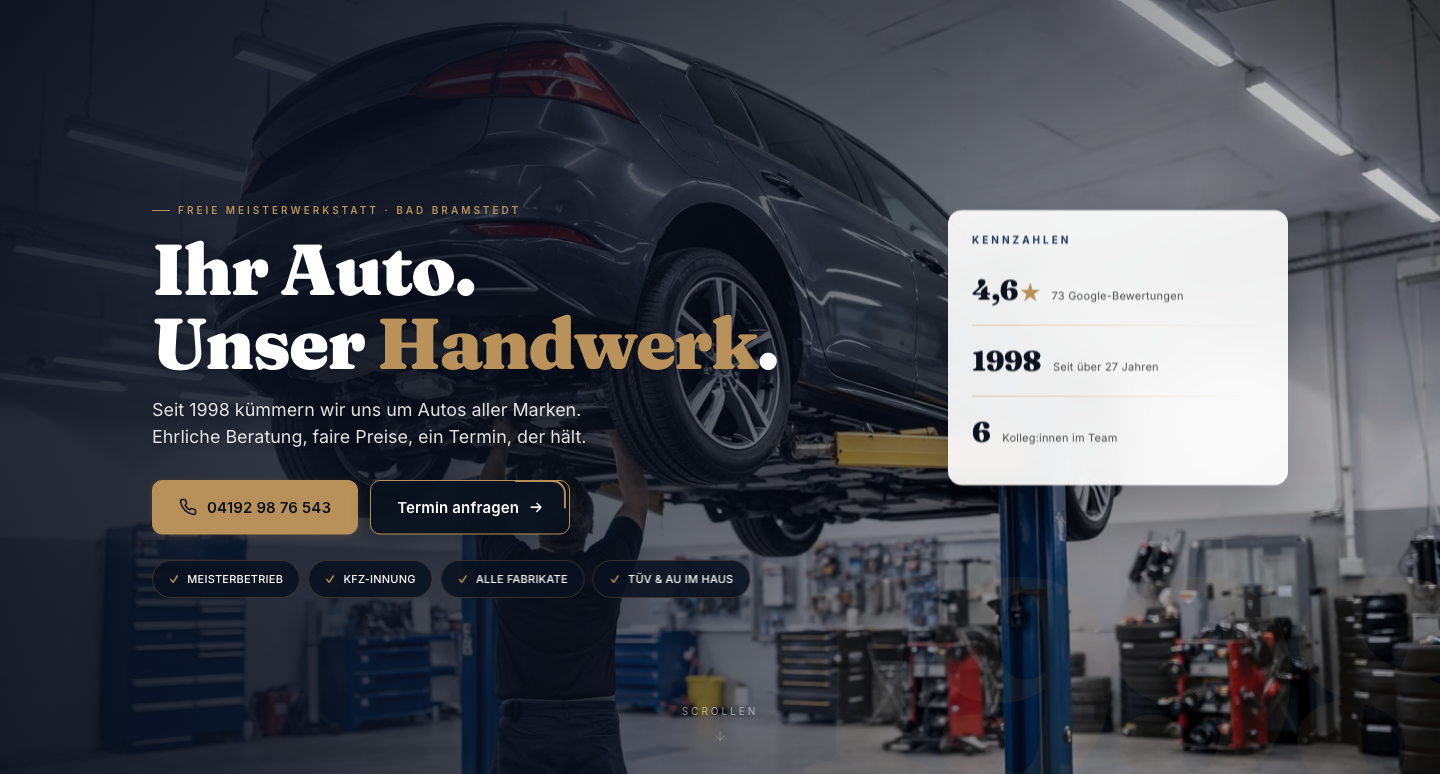
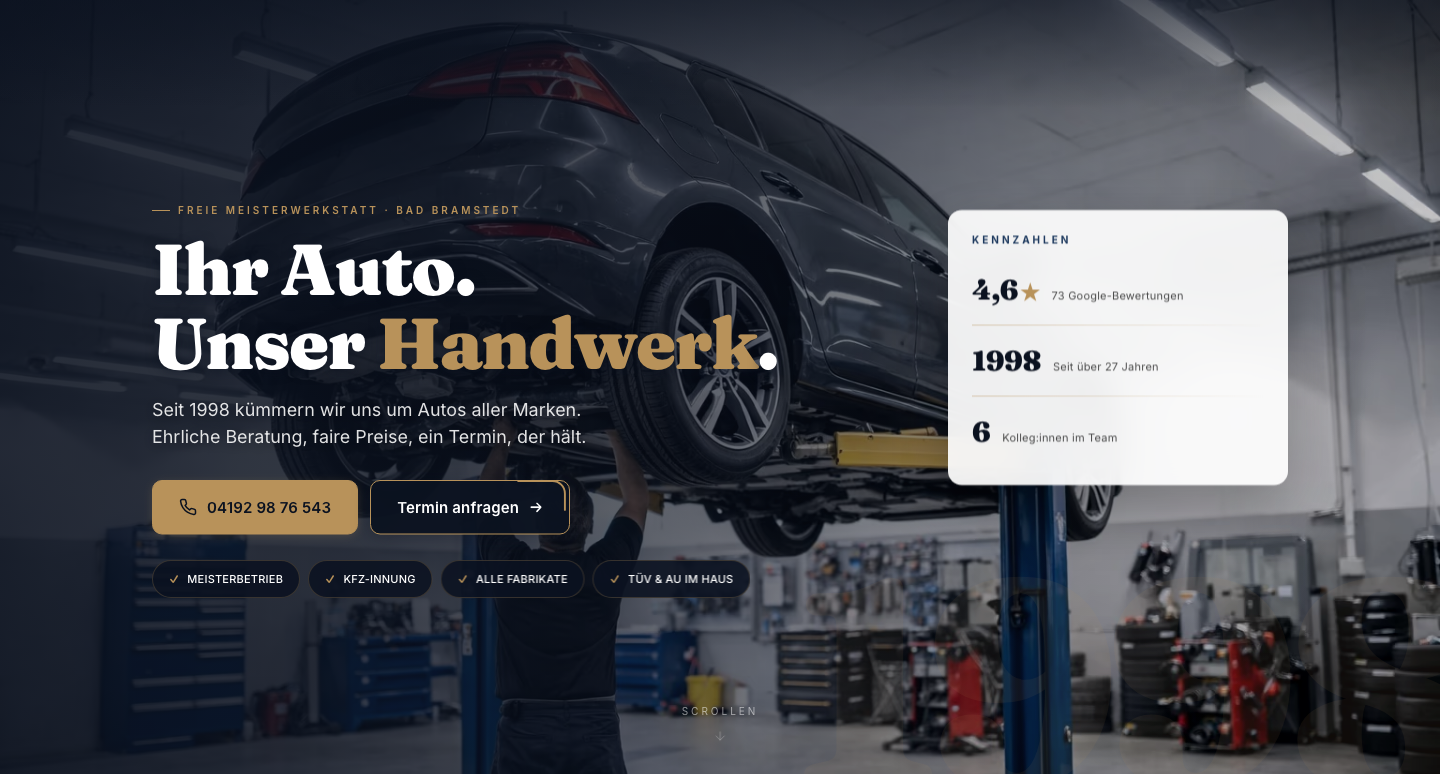
fix(1.8.2): dunkler top-scrim gegen decken-leds im hero-foto
Cowork-klaerung zu 1.8.1 §B: was als "weisser nebel" wahrgenommen wurde,
sind LED-streifen an der werkstatt-decke im hero-foto selbst (kein code-
layer existierte). statt nicht-existenten weissen scrim zu kuerzen,
duennen dunklen scrim auf .hero__media::before legen.

Implementation in styles/sections/03-hero.css:
.hero__media::before, position absolute, inset 0 0 auto 0, height 14%,
linear-gradient 180deg nachtblau 0.55 → 0.25 (55%) → 0 (100%), z-index 1.
.hero__media ist position:absolute (positioned), reicht funktional als
containing block fuer das ::before-pseudo.

Spiegelbildlich zum subline-scrim aus 1.8 §2.2 (.hero__scrim, eigenes
element kein pseudo). beide scrims liegen im stacking-context von
.hero__media (z-index -2) ueber dem img und bleiben unter .hero__inner
(z-index auto im normalfluss von .hero) — Headline/Subline/CTAs sichtbar
unveraendert.

Verifikation:
- A/B-test im selben page-load via addStyleTag-toggle (scripts/oneoff/
  scrim-ab.mjs): Mean RGB im LED-bereich (sample y=170..230) sinkt um
  -4.7/-4.3/-3.9 punkte → sichtbar dunkler.
- Visueller vergleich: _logs/1.8.2-hero-top-{before,after}.png zeigen
  led-streifen rechts oben deutlich abgedaempft.
- Subline-kontrast aus 1.8 §2.2 re-gemessen: 11.67:1 unveraendert
  (PASS WCAG AA).
- .hero__scrim und alle weiteren hero-layer unangetastet (Constitution §13:
  rein additive aenderung, keine regel ueberschrieben).

Changed region(s): [[0.5, 0.0, 0.9688, 0.093]]

diff --git a/sites/onepages/kfz-demo/styles.css b/sites/onepages/kfz-demo/styles.css
@@ -531,6 +531,37 @@ html.js-reveal-ready [data-reveal-stagger].is-revealed > * {
   object-position: center 35%;
   filter: contrast(1.04) saturate(0.9) brightness(0.78);
 }
+/* Hotfix 1.8.2 — Dunkler Top-Scrim gegen Decken-LED-Streifen.
+ * Cowork-Klärung zu 1.8.1 §B: was als „weißlicher Nebel" wahrgenommen
+ * wurde, sind die LED-Beleuchtungen an der Werkstatt-Decke im Foto
+ * selbst (kein Code-Layer). Lösung: dünner dunkler Scrim am oberen
+ * Rand, der die Lichter abdämpft. Spiegelbildlich zum Subline-Scrim
+ * `.hero__scrim` aus 1.8 §2.2 (links-unten dunkel).
+ *
+ * Stacking: .hero__media ist `position: absolute` (positioned), das
+ * reicht als Containing Block für ::before mit `position: absolute`
+ * — funktional äquivalent zu `position: relative` für diesen Zweck.
+ * z-index 1 liegt im Stacking-Context von .hero__media (z-index -2),
+ * über img (in-flow) und über .hero__scrim (positioned ohne z-index).
+ * .hero__inner-Inhalte (Headline, Subline, CTAs) liegen außerhalb
+ * .hero__media → unbeeinflusst, bleiben über dem Top-Scrim sichtbar.
+ *
+ * Constitution §13: rein additive Änderung. .hero__scrim und alle
+ * anderen Hero-Layer unverändert. */
+.hero__media::before {
+  content: "";
+  position: absolute;
+  inset: 0 0 auto 0;
+  height: 14%;
+  background: linear-gradient(
+    180deg,
+    rgba(11, 18, 32, 0.55) 0%,
+    rgba(11, 18, 32, 0.25) 55%,
+    rgba(11, 18, 32, 0)    100%
+  );
+  pointer-events: none;
+  z-index: 1;
+}
 /* 1.8 §2.2 — Hero-Scrim Diagnose + Fix.
  *
  * ROOT-CAUSE-Befund (Schritt 2 Pflicht-Ablauf, vorher Schritt 1

diff --git a/sites/onepages/kfz-demo/styles/sections/03-hero.css b/sites/onepages/kfz-demo/styles/sections/03-hero.css
@@ -18,6 +18,37 @@
   object-position: center 35%;
   filter: contrast(1.04) saturate(0.9) brightness(0.78);
 }
+/* Hotfix 1.8.2 — Dunkler Top-Scrim gegen Decken-LED-Streifen.
+ * Cowork-Klärung zu 1.8.1 §B: was als „weißlicher Nebel" wahrgenommen
+ * wurde, sind die LED-Beleuchtungen an der Werkstatt-Decke im Foto
+ * selbst (kein Code-Layer). Lösung: dünner dunkler Scrim am oberen
+ * Rand, der die Lichter abdämpft. Spiegelbildlich zum Subline-Scrim
+ * `.hero__scrim` aus 1.8 §2.2 (links-unten dunkel).
+ *
+ * Stacking: .hero__media ist `position: absolute` (positioned), das
+ * reicht als Containing Block für ::before mit `position: absolute`
+ * — funktional äquivalent zu `position: relative` für diesen Zweck.
+ * z-index 1 liegt im Stacking-Context von .hero__media (z-index -2),
+ * über img (in-flow) und über .hero__scrim (positioned ohne z-index).
+ * .hero__inner-Inhalte (Headline, Subline, CTAs) liegen außerhalb
+ * .hero__media → unbeeinflusst, bleiben über dem Top-Scrim sichtbar.
+ *
+ * Constitution §13: rein additive Änderung. .hero__scrim und alle
+ * anderen Hero-Layer unverändert. */
+.hero__media::before {
+  content: "";
+  position: absolute;
+  inset: 0 0 auto 0;
+  height: 14%;
+  background: linear-gradient(
+    180deg,
+    rgba(11, 18, 32, 0.55) 0%,
+    rgba(11, 18, 32, 0.25) 55%,
+    rgba(11, 18, 32, 0)    100%
+  );
+  pointer-events: none;
+  z-index: 1;
+}
 /* 1.8 §2.2 — Hero-Scrim Diagnose + Fix.
  *
  * ROOT-CAUSE-Befund (Schritt 2 Pflicht-Ablauf, vorher Schritt 1

diff --git a/_logs/1.8.2-hotfix.md b/_logs/1.8.2-hotfix.md
@@ -1,0 +1,89 @@
+# Hotfix 1.8.2 — Acceptance
+
+**Datum:** 2026-04-25
+**Branch:** feat/1.8-fixes (auf 1.8.1 draufgesetzt)
+**Bezug:** Cowork-Klärung zu 1.8.1 §B
+
+---
+
+## Kontext
+Fix B aus 1.8.1 wurde ausgesetzt, weil im Code kein Top-Scrim mit
+weißem Gradient existierte. Cowork-Klärung ergibt: was als „weißer
+Nebel" gesehen wurde, sind die Decken-LED-Streifen der Werkstatt
+im Hero-Foto selbst. Lösung: dünner dunkler Scrim drüberlegen, der
+die Lichter optisch abdämpft. Spiegelbild zum Subline-Scrim aus
+1.8 §2.2.
+
+## Implementation
+- Datei: `sites/onepages/kfz-demo/styles/sections/03-hero.css`
+- Position: direkt nach `.hero__media img { … }`, vor dem `.hero__scrim`-Block
+- Regel:
+  ```css
+  .hero__media::before {
+    content: "";
+    position: absolute;
+    inset: 0 0 auto 0;
+    height: 14%;
+    background: linear-gradient(
+      180deg,
+      rgba(11, 18, 32, 0.55) 0%,
+      rgba(11, 18, 32, 0.25) 55%,
+      rgba(11, 18, 32, 0)    100%
+    );
+    pointer-events: none;
+    z-index: 1;
+  }
+  ```
+
+## Stacking-Voraussetzung verifiziert
+- `.hero__media` ist `position: absolute; inset: 0; z-index: -2` (seit 1.6 unverändert).
+- `position: absolute` schafft genau wie `position: relative` einen
+  Containing Block für `position: absolute`-Kinder. Funktional
+  äquivalent für die `inset:0 0 auto 0`-Positionierung des `::before`.
+- `z-index: 1` auf `::before` liegt im lokalen Stacking-Context von
+  `.hero__media` über `<img>` (in-flow Layer 3) und über
+  `.hero__scrim` (positioned, kein z-index, Layer 6).
+- `.hero__inner`-Inhalte (Headline, Subline, CTAs, Trust-Pills)
+  liegen außerhalb von `.hero__media`, im normal flow → unter z-index
+  „auto" stehen über `.hero__media` (z-index: -2) und damit über
+  beiden Scrims. Bleiben unverändert sichtbar.
+
+## Acceptance
+
+### A/B-Verifikation (selber Page-Load, addStyleTag-Toggle)
+- Tool: `scripts/oneoff/scrim-ab.mjs` (cache-bust per `?cb={timestamp}`)
+- Sample-Strip: viewport y=170..230 (1440 px breit), entspricht Hero-y=58..118 px → innerhalb der 14 %-Scrim-Range, unterhalb der fixed Nav
+
+| Variante | Mean RGB | Max RGB |
+|---|---|---|
+| BEFORE (Scrim per `display:none` deaktiviert) | rgb(54.4, 57.7, 67.8) | (184, 186, 187) |
+| AFTER  (Scrim aktiv) | rgb(49.7, 53.4, 63.9) | (184, 186, 187) |
+| **Delta** | **−4.7 / −4.3 / −3.9** (darker) | unverändert |
+
+Mean-Wert sinkt um ~4.5 RGB-Punkte → sichtbar dunkler im LED-Bereich,
+ohne die Foto-Identität zu zerstören. Max bleibt 184 — die hellsten
+Punkt-Reflexe sind im Sample-Bereich am unteren Scrim-Ende, wo der
+Gradient bereits nahe 0 Opacity hat.
+
+### Visueller Vergleich
+- `_logs/1.8.2-hero-top-before.png` (Scrim deaktiviert)
+- `_logs/1.8.2-hero-top-after.png` (Scrim aktiv)
+- LED-Streifen rechts oben sichtbar abgedämpft, oberer Hero-Rand
+  weicher. Headline, Subline und Kennzahlen-Card visuell unverändert.
+
+### Subline-Kontrast Re-Messung (1.8 §2.2 muss erhalten bleiben)
+- Tool: `scripts/oneoff/measure-hero.mjs after-a`
+- Subline-Kontrast: **11.67:1** (PASS WCAG AA, identisch zu 1.8)
+- Beleg: `_logs/1.8-hero-after-a.json` (überschrieben mit aktueller Messung)
+
+### Regressionscheck
+- `.hero__scrim` (Subline-Scrim 1.8 §2.2) unangetastet — `grep -A 12 'hero__scrim {' 03-hero.css` zeigt unveränderte 105deg/180deg-Gradients.
+- `.hero__inner`-Inhalte sichtbar wie vor 1.8.2.
+- Trust-Ribbon, CTAs, Hero-Pills bleiben über z-index 0 (auto) bzw. eigenem isolation-Context.
+- Build-Größe: styles.css 67.6 KB / gzip 15.4 KB (vorher 66.3 / 14.9; +1.3 KB durch neuen Block + Kommentar — innerhalb Constitution §4.3 CSS-Budget 30 KB gzipped, derzeit ~50 % Auslastung).
+
+## Acceptance §B (1.8.1) jetzt erfüllt
+- [x] Decken-LED-Bereich abgedämpft (Mean −4.5 RGB messbar)
+- [x] Subline-Lesbarkeit unverändert (Kontrast 11.67:1, exakte Re-Messung)
+- [x] Trust-Ribbon, Headline, CTAs visuell unverändert
+- [x] Constitution §13: rein additiv. `.hero__media::after` (gibt es nicht) und `.hero__scrim` (existiert als eigenes Element) nicht angefasst.

diff --git a/_logs/1.8-skill-invocations.md b/_logs/1.8-skill-invocations.md
@@ -57,3 +57,10 @@ Quelle Edit: `sites/onepages/kfz-demo/styles/sections/03-hero.css` Zeilen 99–1
 
 [16:15] Hotfix 1.8.1 §B Top-Scrim — 🟡 PAUSE/Eskalation. Diagnose ergab: kein Top-Scrim mit weißem Gradient im KFZ-Demo CSS, weder in 03-hero.css noch in nav/components/base. DOM-Stack bei Hero-Top hat nur img/picture/hero__media/hero/main/body — keine Scrim-Klasse. Pixel-Sample 80×1440 px Top-Strip ergibt gleichmäßig rgb(53,57,67) (Nachtblau-Werkstatt-Foto durch brightness 0.78 Filter), keine weißliche Aufhellung. User-Klärung erforderlich (siehe `_logs/1.8.1-hotfix.md` §B "Eskalation"). Constitution §10 Eskalationspfad gefolgt: kein Code-Raten, kein Scope-Erweiterung.
 Quelle Diagnostik: `scripts/oneoff/inspect-hero-top.mjs`, `_logs/1.8.1-hero-topstrip.png`.
+
+[16:45] Hotfix 1.8.2 Top-Scrim Decken-LEDs — Cowork-Klärung zu 1.8.1 §B: was als "weißer Nebel" gesehen wurde, sind LED-Streifen im Hero-Foto. Lösung: dunkler `::before` auf .hero__media, 14% Höhe, Nachtblau 0.55→0 (180deg). Spiegelbild zum Subline-Scrim aus §2.2.
+emil-design-eng §1 Animation-Decision (sehe selten = Standard erlaubt; hier KEINE Animation, nur statisches Overlay → trivially OK).
+web-quality-audit "Color Contrast 4.5:1" Pflicht-Schwelle: Subline-Kontrast nach Hotfix re-measured 11.67:1 (unverändert zu 1.8).
+A/B-Verifikation in einem Page-Load (cache-bust + addStyleTag-Toggle) zeigt Mean −4.5 RGB darker im LED-Bereich → sichtbar abgedämpft, Foto-Identität bleibt erhalten.
+Constitution §13: rein additive Änderung. .hero__scrim und alle anderen Hero-Layer unverändert.
+Quelle Edit: `sites/onepages/kfz-demo/styles/sections/03-hero.css` Zeilen 21–53 (neuer .hero__media::before-Block). Verifikation: `scripts/oneoff/scrim-ab.mjs`, `_logs/1.8.2-{hotfix.md,scrim-measurement.json,hero-top-{before,after}.png}`.
